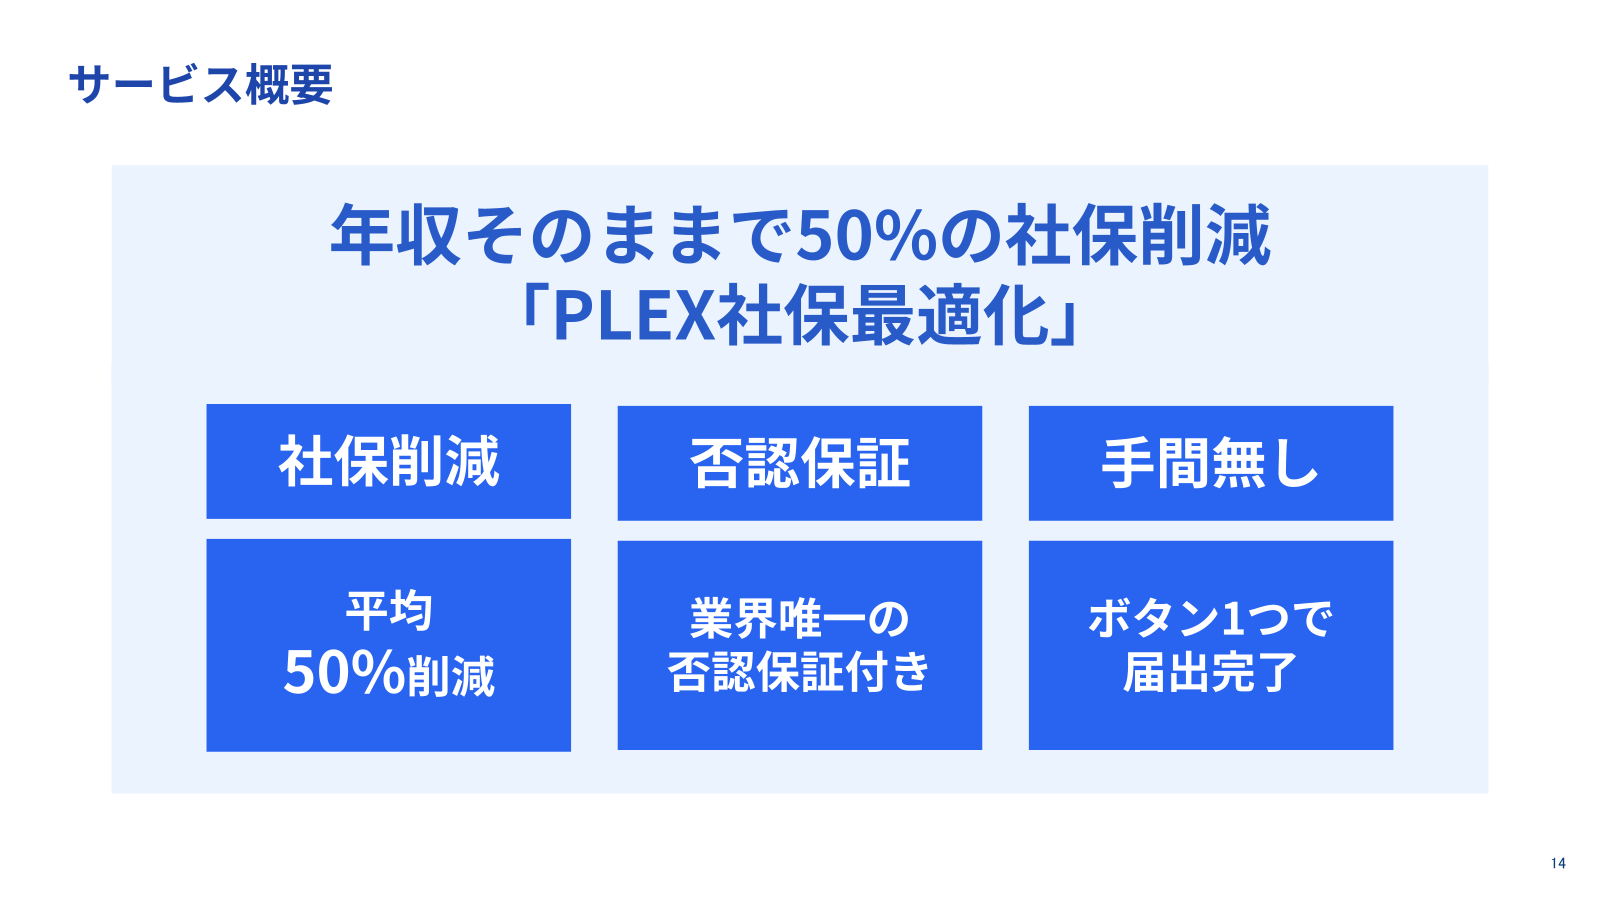
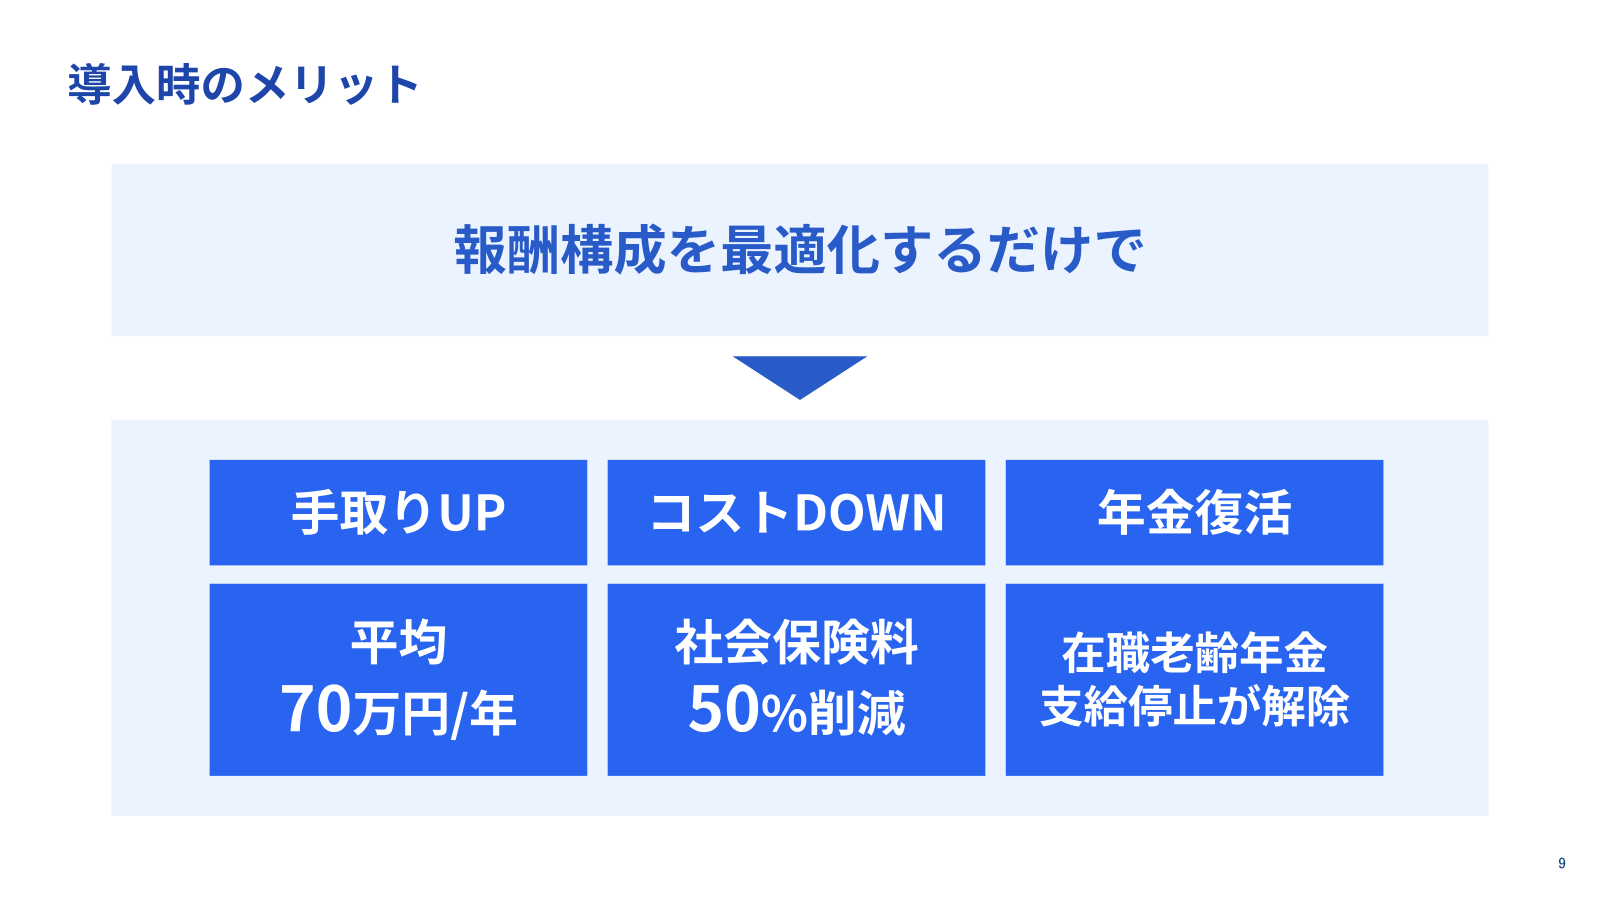
資料請求ページ: 料金プラン削除・サムネイルをP8/P11に差替え

Changed region(s): [[0.125, 0.2178, 0.875, 0.8711], [0.0312, 0.0622, 0.25, 0.1244]]

diff --git a/src/components/DownloadForm.tsx b/src/components/DownloadForm.tsx
@@ -148,7 +148,7 @@ export default function DownloadForm() {
               <div className="doc-label">SERVICE DOCUMENT</div>
               <h2>3分でわかる！<br />PLEX 社保最適化<br />サービス資料</h2>
               <div className="doc-thumbs">
-                <Image src="/doc_thumb_flow.png" alt="サービス概要" width={460} height={259} loading="lazy" />
+                <Image src="/doc_thumb_flow.png" alt="導入時のメリット" width={460} height={259} loading="lazy" />
                 <Image src="/doc_thumb_merit.png" alt="月額vs賞与の社会保険料比較" width={460} height={259} loading="lazy" />
               </div>
               <p className="doc-desc">社会保険料最適化の仕組みから削減効果の概算例、導入イメージまでを分かりやすくまとめた資料です。</p>
@@ -159,7 +159,6 @@ export default function DownloadForm() {
                   <li>削減効果の概算例</li>
                   <li>導入・運用イメージ</li>
                   <li>否認補償（SLA）</li>
-                  <li>料金プラン</li>
                 </ul>
               </div>
             </div>
